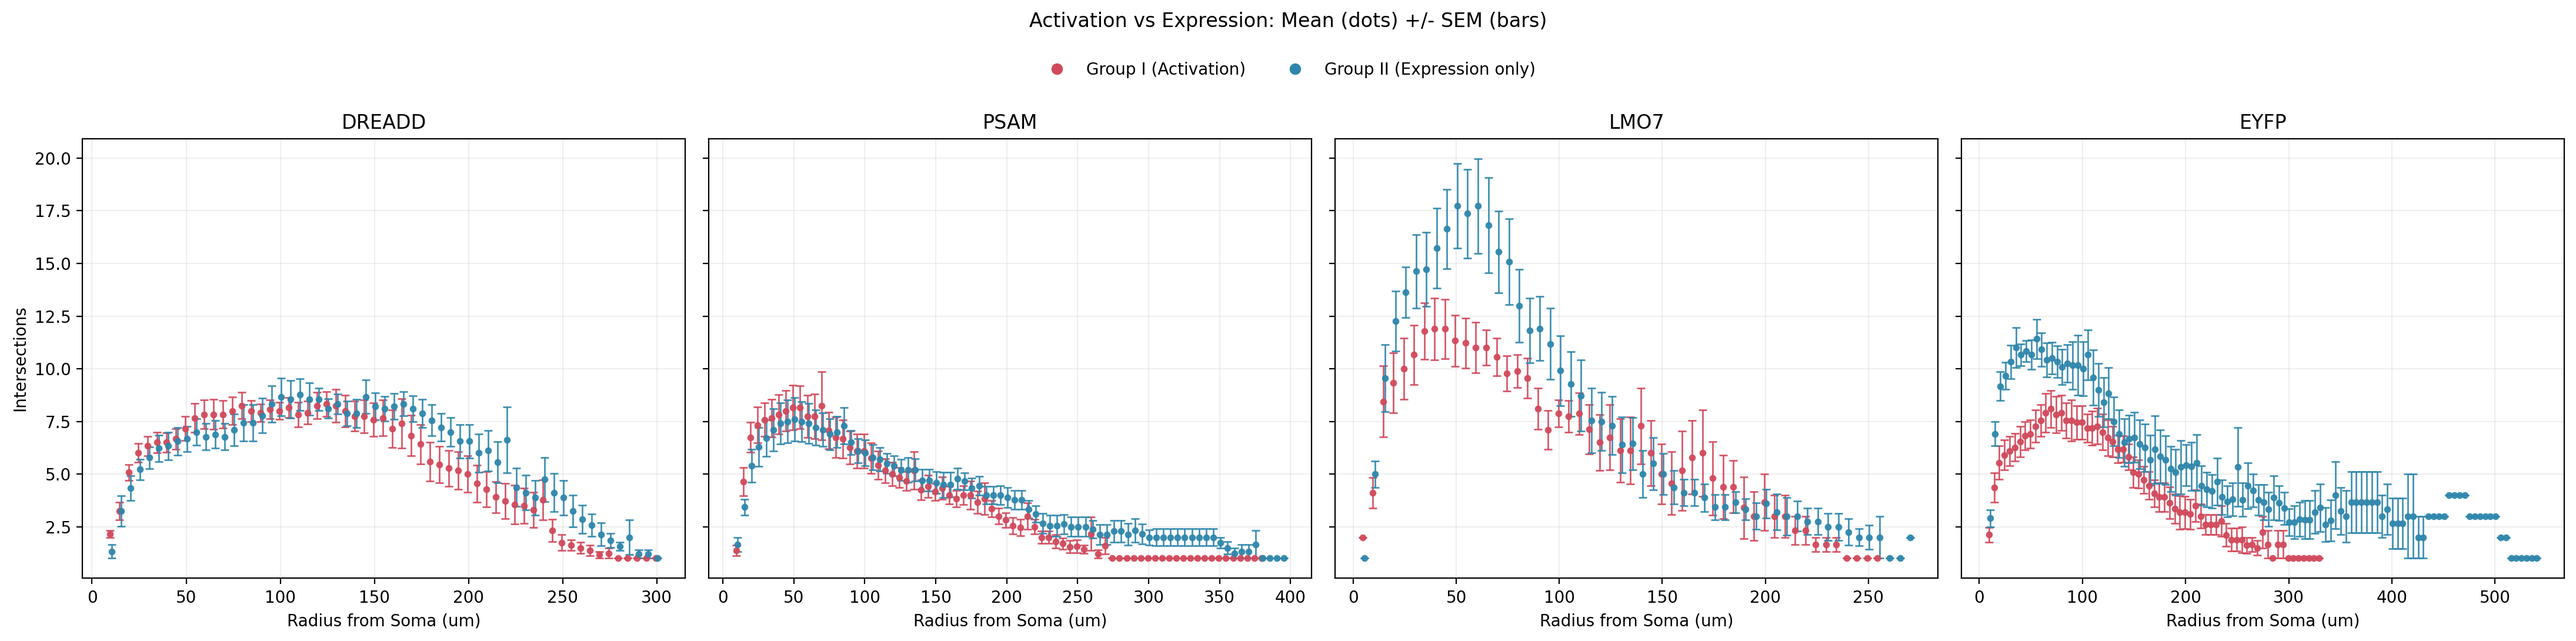
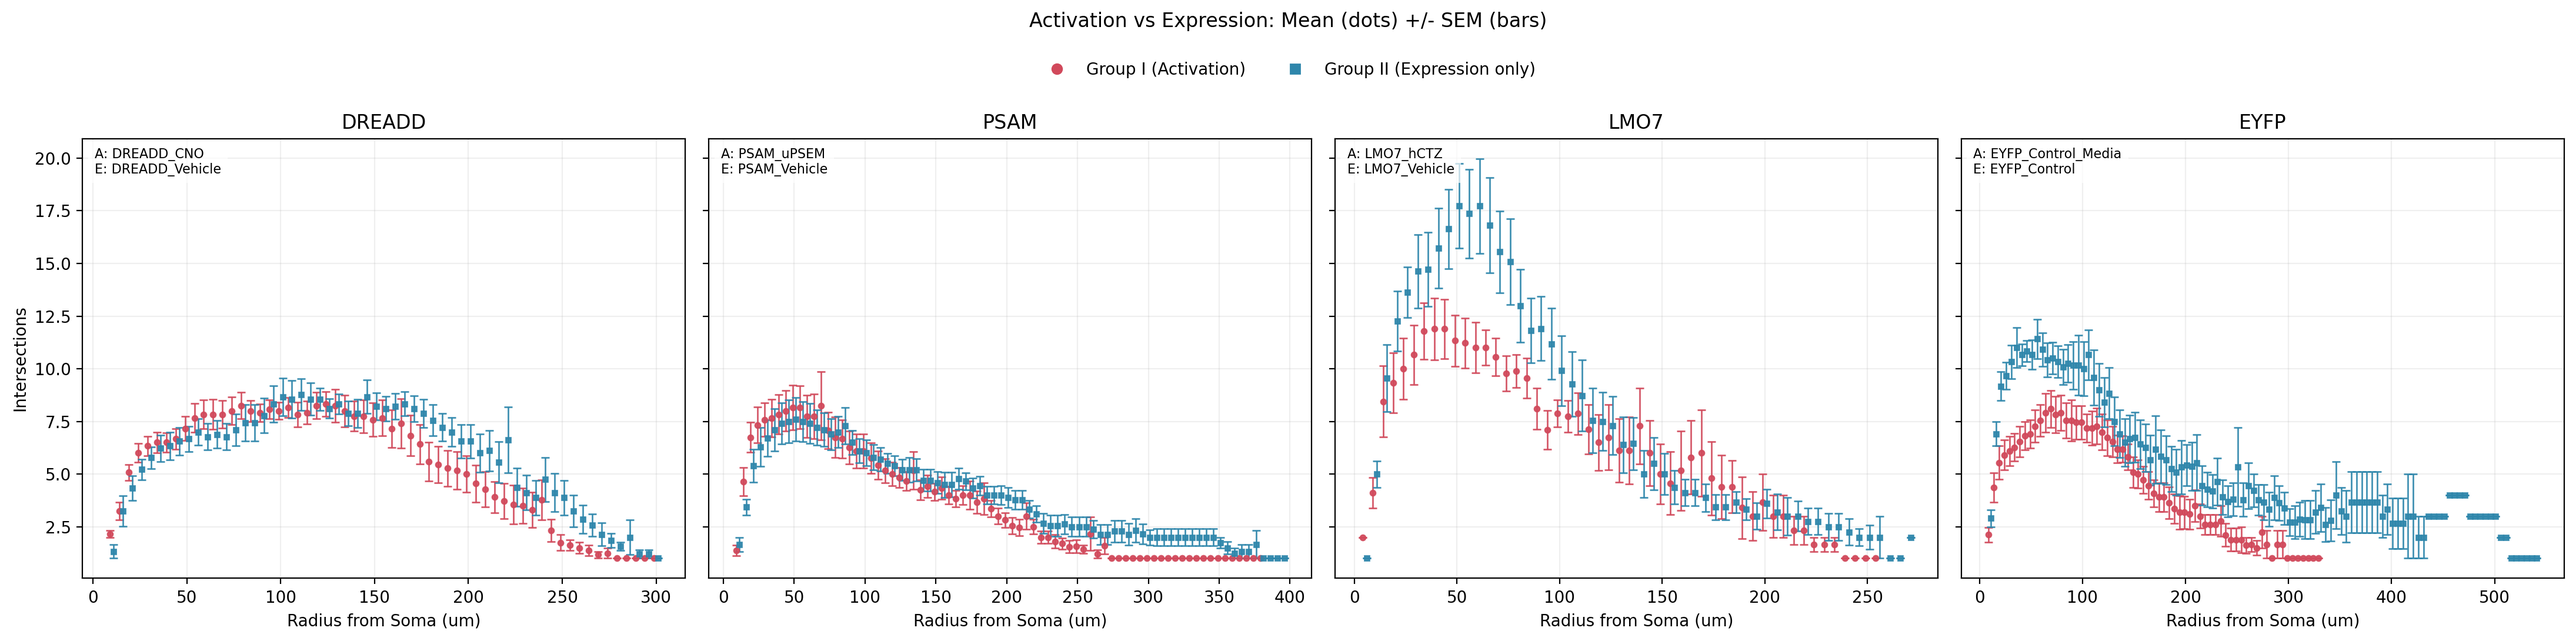
Refresh 1x4 plot with explicit condition labels and distinct markers

diff --git a/scripts/plot_activation_vs_expression_1x4.py b/scripts/plot_activation_vs_expression_1x4.py
@@ -16,6 +16,10 @@ from chemogenetic_analysis import ShollDataProcessor
 
 TECH_ORDER = ["DREADD", "PSAM", "LMO7", "EYFP"]
 GROUPS = ["Group I (Activation)", "Group II (Expression only)"]
+GROUP_MARKERS = {
+    "Group I (Activation)": "o",
+    "Group II (Expression only)": "s",
+}
 
 
 def parse_args() -> argparse.Namespace:
@@ -68,8 +72,8 @@ def main() -> None:
 
     fig, axes = plt.subplots(1, 4, figsize=(22, 5), sharey=True)
     group_offsets = {
-        "Group I (Activation)": -0.5,
-        "Group II (Expression only)": 0.5,
+        "Group I (Activation)": -1.0,
+        "Group II (Expression only)": 1.0,
     }
 
     for idx, technology in enumerate(TECH_ORDER):
@@ -97,7 +101,7 @@ def main() -> None:
                 x,
                 y,
                 yerr=sem,
-                fmt="o",
+                fmt=GROUP_MARKERS.get(group_name, "o"),
                 color=color,
                 ecolor=color,
                 elinewidth=1.0,
@@ -107,6 +111,18 @@ def main() -> None:
             )
 
         ax.set_title(technology)
+        activation_cond = tech_map.get("Group I (Activation)", "NA")
+        expression_cond = tech_map.get("Group II (Expression only)", "NA")
+        ax.text(
+            0.02,
+            0.98,
+            f"A: {activation_cond}\nE: {expression_cond}",
+            transform=ax.transAxes,
+            ha="left",
+            va="top",
+            fontsize=8,
+            bbox={"facecolor": "white", "alpha": 0.7, "edgecolor": "none"},
+        )
         ax.grid(alpha=0.2)
         ax.set_xlabel("Radius from Soma (um)")
         if idx == 0:
@@ -116,7 +132,7 @@ def main() -> None:
         Line2D(
             [0],
             [0],
-            marker="o",
+            marker=GROUP_MARKERS.get(group, "o"),
             color=processor.GROUP_COLORS.get(group, "#4c4c4c"),
             linestyle="None",
             markersize=6,
